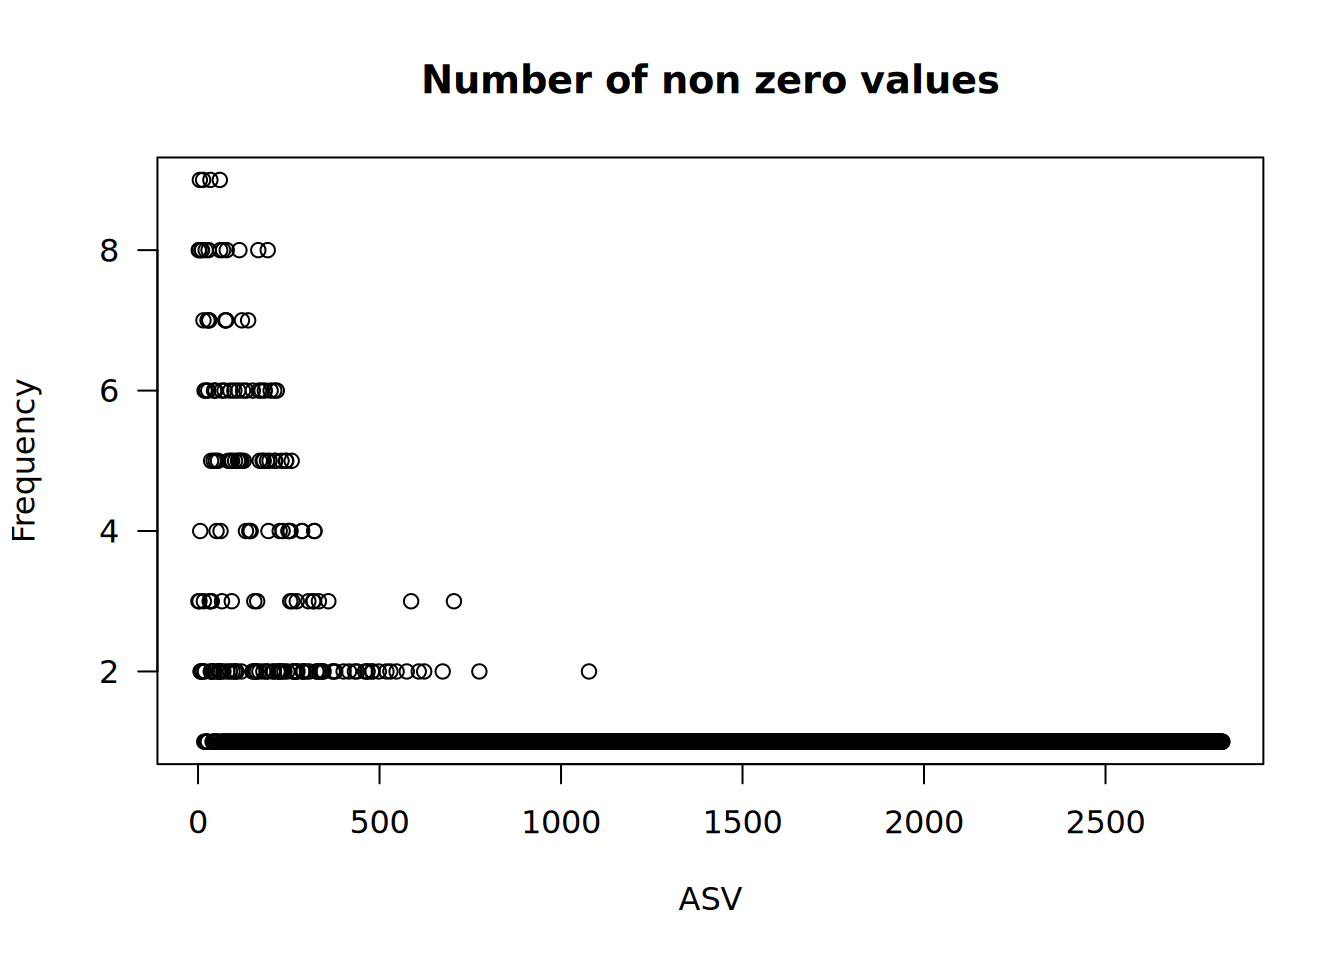
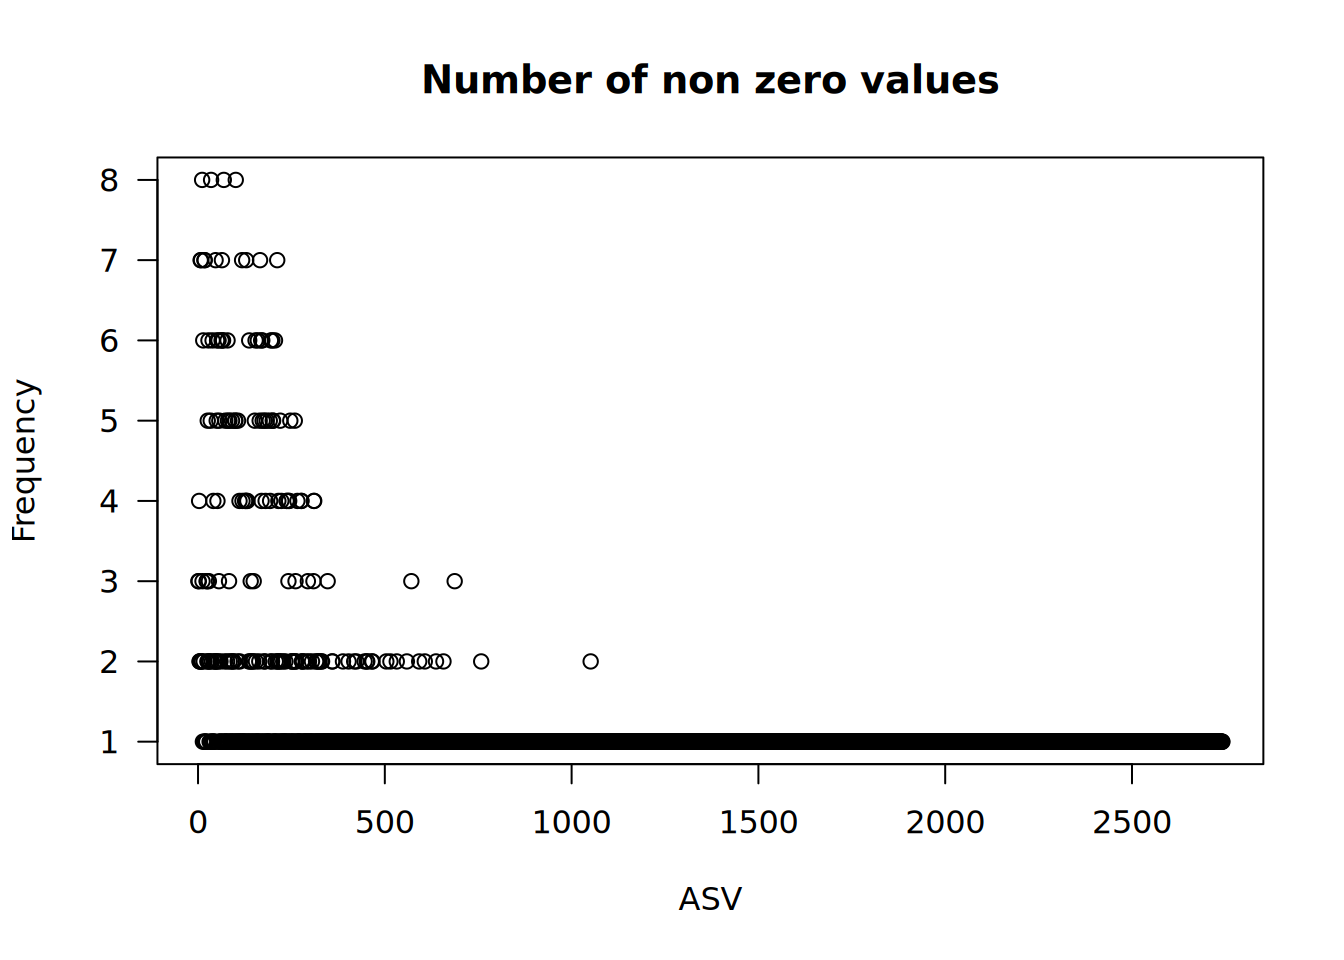
Built site for gh-pages

diff --git a/qc.html b/qc.html
@@ -500,7 +500,7 @@ Stop &amp; think
 <span id="cb11-4"><a href="#cb11-4" aria-hidden="true" tabindex="-1"></a><span class="co">#report the number of zeros in the ASV table</span></span>
 <span id="cb11-5"><a href="#cb11-5" aria-hidden="true" tabindex="-1"></a><span class="fu">print</span>(<span class="fu">paste0</span>(<span class="st">"Number of zeros in the ASV table = "</span>,num_zeros))</span></code><button title="Copy to Clipboard" class="code-copy-button"><i class="bi"></i></button></pre></div>
 <div class="cell-output cell-output-stdout">
-<pre><code>[1] "Number of zeros in the ASV table = 47440"</code></pre>
+<pre><code>[1] "Number of zeros in the ASV table = 46168"</code></pre>
 </div>
 <div class="sourceCode cell-code" id="cb13"><pre class="sourceCode r code-with-copy"><code class="sourceCode r"><span id="cb13-1"><a href="#cb13-1" aria-hidden="true" tabindex="-1"></a><span class="co">#calculate the percentage of zeros in the ASV table</span></span>
 <span id="cb13-2"><a href="#cb13-2" aria-hidden="true" tabindex="-1"></a>percent_zeros <span class="ot">&lt;-</span> <span class="fu">sum</span>(filtered_asv_count.data <span class="sc">==</span> <span class="dv">0</span>) <span class="sc">/</span> (nb_var <span class="sc">*</span> nb_samples) <span class="sc">*</span> <span class="dv">100</span></span>
@@ -508,7 +508,7 @@ Stop &amp; think
 <span id="cb13-4"><a href="#cb13-4" aria-hidden="true" tabindex="-1"></a><span class="co">#report the the percentages of zeros in the ASV table to 3 significant figures with the signif() function</span></span>
 <span id="cb13-5"><a href="#cb13-5" aria-hidden="true" tabindex="-1"></a><span class="fu">print</span>(<span class="fu">paste0</span>(<span class="st">"Percentage of zeros in the ASV table = "</span>, <span class="fu">signif</span>(percent_zeros,<span class="dv">3</span>),<span class="st">"%"</span>))</span></code><button title="Copy to Clipboard" class="code-copy-button"><i class="bi"></i></button></pre></div>
 <div class="cell-output cell-output-stdout">
-<pre><code>[1] "Percentage of zeros in the ASV table = 93.4%"</code></pre>
+<pre><code>[1] "Percentage of zeros in the ASV table = 93.5%"</code></pre>
 </div>
 </div>
 <div class="callout callout-style-default callout-tip callout-titled" title="Stop &amp; think">
@@ -625,6 +625,10 @@ Answers
 <section id="checking-library-size" class="level4">
 <h4 class="anchored" data-anchor-id="checking-library-size">Checking library size</h4>
 <p><strong>Check the number of ASV counts per sample:</strong></p>
+<div class="tabset-margin-container"></div><div class="panel-tabset">
+<ul class="nav nav-tabs" role="tablist"><li class="nav-item" role="presentation"><a class="nav-link active" id="tabset-1-1-tab" data-bs-toggle="tab" data-bs-target="#tabset-1-1" role="tab" aria-controls="tabset-1-1" aria-selected="true" aria-current="page">Code</a></li><li class="nav-item" role="presentation"><a class="nav-link" id="tabset-1-2-tab" data-bs-toggle="tab" data-bs-target="#tabset-1-2" role="tab" aria-controls="tabset-1-2" aria-selected="false">Plot</a></li></ul>
+<div class="tab-content">
+<div id="tabset-1-1" class="tab-pane active" role="tabpanel" aria-labelledby="tabset-1-1-tab">
 <div class="cell">
 <div class="sourceCode cell-code" id="cb16"><pre class="sourceCode r code-with-copy"><code class="sourceCode r"><span id="cb16-1"><a href="#cb16-1" aria-hidden="true" tabindex="-1"></a><span class="co">#calculate the number of counts per sample</span></span>
 <span id="cb16-2"><a href="#cb16-2" aria-hidden="true" tabindex="-1"></a>library_size <span class="ot">&lt;-</span> <span class="fu">rowSums</span>(filtered_asv_count.data)</span>
@@ -633,14 +637,37 @@ Answers
 <span id="cb16-5"><a href="#cb16-5" aria-hidden="true" tabindex="-1"></a><span class="co">#check if any samples have zero counts</span></span>
 <span id="cb16-6"><a href="#cb16-6" aria-hidden="true" tabindex="-1"></a>library_size[library_size <span class="sc">==</span> <span class="dv">0</span>]</span>
 <span id="cb16-7"><a href="#cb16-7" aria-hidden="true" tabindex="-1"></a></span>
-<span id="cb16-8"><a href="#cb16-8" aria-hidden="true" tabindex="-1"></a><span class="co">#plot the number of counts per sample as a histogram</span></span>
-<span id="cb16-9"><a href="#cb16-9" aria-hidden="true" tabindex="-1"></a><span class="fu">plot</span>(library_size, <span class="at">ylim=</span><span class="fu">c</span>(<span class="dv">0</span>,<span class="dv">25000</span>), <span class="at">main=</span><span class="fu">c</span>(<span class="st">"Number of counts per sample"</span>), <span class="at">xlab=</span><span class="fu">c</span>(<span class="st">"Samples"</span>))</span>
+<span id="cb16-8"><a href="#cb16-8" aria-hidden="true" tabindex="-1"></a><span class="co">#check the minimum library size</span></span>
+<span id="cb16-9"><a href="#cb16-9" aria-hidden="true" tabindex="-1"></a><span class="fu">min</span>(library_size)</span>
 <span id="cb16-10"><a href="#cb16-10" aria-hidden="true" tabindex="-1"></a></span>
-<span id="cb16-11"><a href="#cb16-11" aria-hidden="true" tabindex="-1"></a><span class="co">#check the minimum library size</span></span>
-<span id="cb16-12"><a href="#cb16-12" aria-hidden="true" tabindex="-1"></a><span class="fu">min</span>(library_size)</span>
+<span id="cb16-11"><a href="#cb16-11" aria-hidden="true" tabindex="-1"></a><span class="co">#check the maximum library size</span></span>
+<span id="cb16-12"><a href="#cb16-12" aria-hidden="true" tabindex="-1"></a><span class="fu">max</span>(library_size)</span>
 <span id="cb16-13"><a href="#cb16-13" aria-hidden="true" tabindex="-1"></a></span>
-<span id="cb16-14"><a href="#cb16-14" aria-hidden="true" tabindex="-1"></a><span class="co">#check the maximum library size</span></span>
-<span id="cb16-15"><a href="#cb16-15" aria-hidden="true" tabindex="-1"></a><span class="fu">max</span>(library_size)</span></code><button title="Copy to Clipboard" class="code-copy-button"><i class="bi"></i></button></pre></div>
+<span id="cb16-14"><a href="#cb16-14" aria-hidden="true" tabindex="-1"></a><span class="co">#plot the number of counts per sample</span></span>
+<span id="cb16-15"><a href="#cb16-15" aria-hidden="true" tabindex="-1"></a>library_size.data <span class="ot">&lt;-</span> <span class="fu">as.data.frame</span>(library_size) </span>
+<span id="cb16-16"><a href="#cb16-16" aria-hidden="true" tabindex="-1"></a>library_size.data<span class="sc">$</span>Sample <span class="ot">&lt;-</span> <span class="fu">rownames</span>(library_size.data)</span>
+<span id="cb16-17"><a href="#cb16-17" aria-hidden="true" tabindex="-1"></a></span>
+<span id="cb16-18"><a href="#cb16-18" aria-hidden="true" tabindex="-1"></a>library_size.plot <span class="ot">&lt;-</span> <span class="fu">ggplot</span>(library_size.data, <span class="fu">aes</span>(<span class="at">x=</span>Sample, <span class="at">y=</span>library_size, <span class="at">fill=</span>Sample)) <span class="sc">+</span></span>
+<span id="cb16-19"><a href="#cb16-19" aria-hidden="true" tabindex="-1"></a>  <span class="fu">geom_bar</span>(<span class="at">stat=</span><span class="st">"identity"</span>) <span class="sc">+</span></span>
+<span id="cb16-20"><a href="#cb16-20" aria-hidden="true" tabindex="-1"></a>  <span class="fu">geom_text</span>(<span class="fu">aes</span>(<span class="at">x =</span> Sample, <span class="at">y =</span> library_size, <span class="at">label =</span> library_size), <span class="at">vjust=</span><span class="sc">-</span><span class="dv">1</span>, <span class="at">size=</span><span class="fl">2.5</span>) <span class="sc">+</span></span>
+<span id="cb16-21"><a href="#cb16-21" aria-hidden="true" tabindex="-1"></a>  <span class="fu">ylab</span>(<span class="st">"Library size (counts)"</span>) <span class="sc">+</span></span>
+<span id="cb16-22"><a href="#cb16-22" aria-hidden="true" tabindex="-1"></a>  <span class="fu">scale_x_discrete</span>(<span class="at">guide =</span> <span class="fu">guide_axis</span>(<span class="at">angle =</span> <span class="dv">45</span>)) <span class="sc">+</span></span>
+<span id="cb16-23"><a href="#cb16-23" aria-hidden="true" tabindex="-1"></a>  <span class="fu">theme_classic</span>() <span class="sc">+</span> </span>
+<span id="cb16-24"><a href="#cb16-24" aria-hidden="true" tabindex="-1"></a>  <span class="fu">theme</span>(<span class="at">legend.position=</span><span class="st">"none"</span>) </span></code><button title="Copy to Clipboard" class="code-copy-button"><i class="bi"></i></button></pre></div>
+</div>
+</div>
+<div id="tabset-1-2" class="tab-pane" role="tabpanel" aria-labelledby="tabset-1-2-tab">
+<div class="cell">
+<div class="cell-output-display">
+<div>
+<figure class="figure">
+<p><img src="qc_files/figure-html/libraryplot-1.png" class="img-fluid figure-img" width="672"></p>
+</figure>
+</div>
+</div>
+</div>
+</div>
+</div>
 </div>
 <p><strong>Removing negative controls (by row) and re-checking library size:</strong></p>
 <div class="cell">
@@ -880,7 +907,7 @@ window.document.addEventListener("DOMContentLoaded", function (event) {
   }
     var localhostRegex = new RegExp(/^(?:http|https):\/\/localhost\:?[0-9]*\//);
     var mailtoRegex = new RegExp(/^mailto:/);
-      var filterRegex = new RegExp("https:\/\/laurenhemara\.github\.io\/microbiome_workshop\/");
+      var filterRegex = new RegExp('/' + window.location.host + '/');
     var isInternal = (href) => {
         return filterRegex.test(href) || localhostRegex.test(href) || mailtoRegex.test(href);
     }
